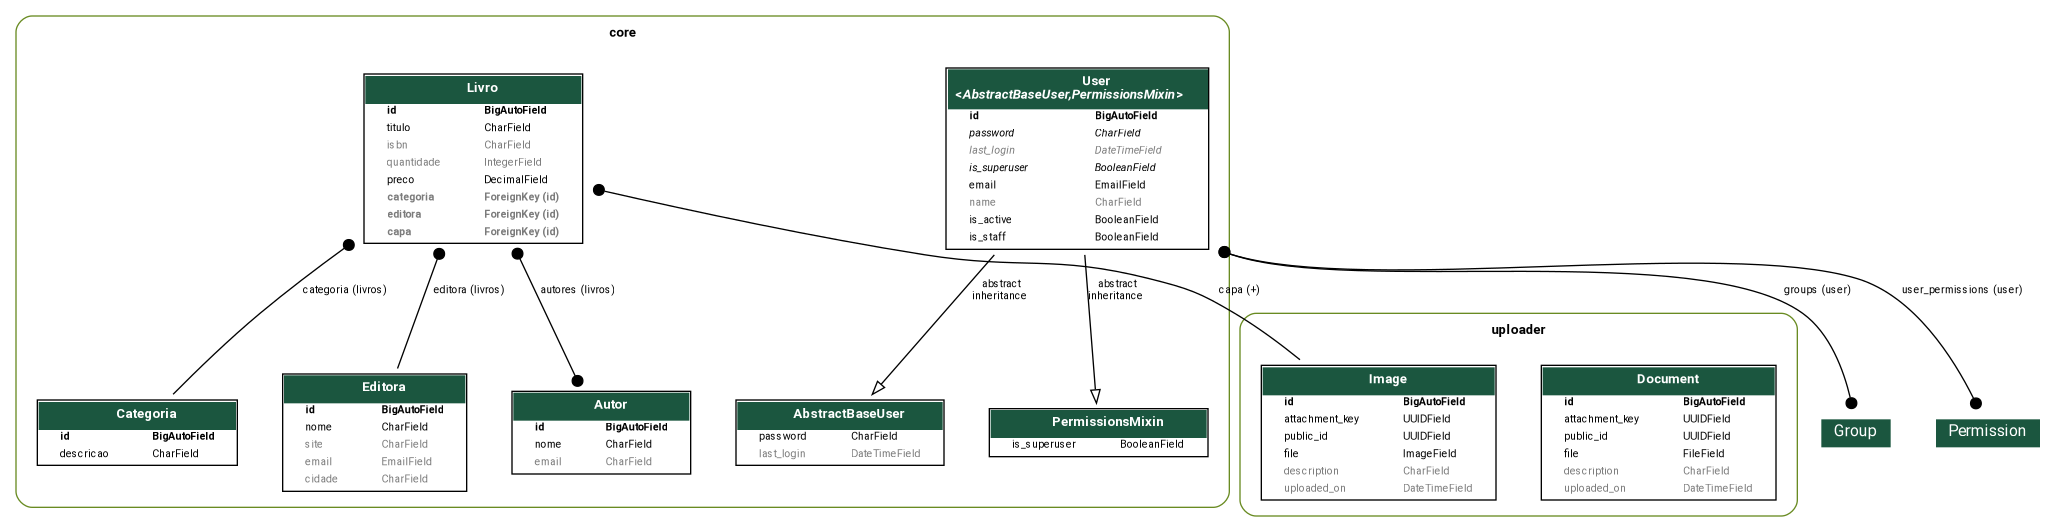
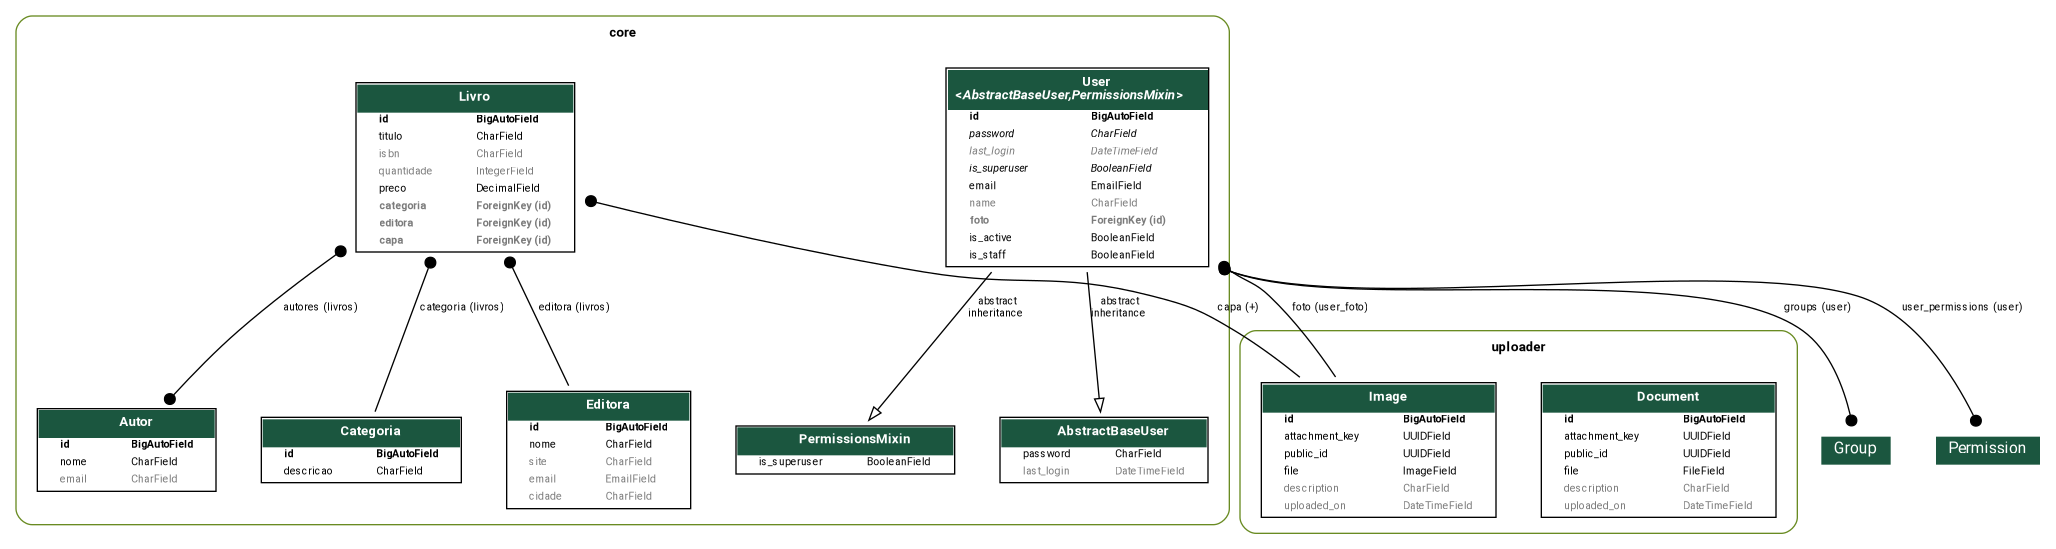
feat: inclusão da foto de perfil no usuário

diff --git a/core/serializers/user.py b/core/serializers/user.py
@@ -1,18 +1,39 @@
-from rest_framework import serializers
-from rest_framework.serializers import ModelSerializer
+from rest_framework.serializers import CharField, ModelSerializer, SlugRelatedField
 
 from core.models import User
+from uploader.models import Image
+from uploader.serializers import ImageSerializer
 
 
 class UserSerializer(ModelSerializer):
+    foto_attachment_key = SlugRelatedField(
+        source='foto',
+        queryset=Image.objects.all(),
+        slug_field='attachment_key',
+        required=False,
+        write_only=True,
+    )
+    foto = ImageSerializer(required=False, read_only=True)
+
     class Meta:
         model = User
-        fields = ['id', 'email', 'name', 'is_active', 'is_staff', 'is_superuser', 'last_login', 'groups']
+        fields = (
+            'id',
+            'email',
+            'name',
+            'foto',
+            'foto_attachment_key',
+            'is_active',
+            'is_staff',
+            'is_superuser',
+            'last_login',
+            'groups',
+        )
         depth = 1
 
 
 class UserRegistrationSerializer(ModelSerializer):
-    password = serializers.CharField(write_only=True, min_length=8)
+    password = CharField(write_only=True, min_length=8)
 
     class Meta:
         model = User

diff --git a/core/models/user.py b/core/models/user.py
@@ -10,6 +10,8 @@ from django.contrib.auth.models import (
 from django.db import models
 from django.utils.translation import gettext_lazy as _
 
+from uploader.models import Image
+
 
 class UserManager(BaseUserManager):
     """Manager for users."""
@@ -42,6 +44,14 @@ class User(AbstractBaseUser, PermissionsMixin):
 
     email = models.EmailField(max_length=255, unique=True, verbose_name=_('email'), help_text=_('Email'))
     name = models.CharField(max_length=255, blank=True, null=True, verbose_name=_('name'), help_text=_('Username'))
+    foto = models.ForeignKey(
+        Image,
+        related_name='user_foto',
+        on_delete=models.SET_NULL,
+        null=True,
+        blank=True,
+        default=None,
+    )
     is_active = models.BooleanField(
         default=True, verbose_name=_('Usuário está ativo'), help_text=_('Indica que este usuário está ativo.')
     )

diff --git a/core/migrations/0010_user_foto.py b/core/migrations/0010_user_foto.py
@@ -1,0 +1,20 @@
+# Generated by Django 5.2.13 on 2026-05-15 13:20
+
+import django.db.models.deletion
+from django.db import migrations, models
+
+
+class Migration(migrations.Migration):
+
+    dependencies = [
+        ('core', '0009_editora_cidade_editora_email'),
+        ('uploader', '0001_initial'),
+    ]
+
+    operations = [
+        migrations.AddField(
+            model_name='user',
+            name='foto',
+            field=models.ForeignKey(blank=True, default=None, null=True, on_delete=django.db.models.deletion.SET_NULL, related_name='user_foto', to='uploader.image'),
+        ),
+    ]

diff --git a/core/admin.py b/core/admin.py
@@ -54,7 +54,7 @@ class UserAdmin(BaseUserAdmin):
     search_fields = ['email', 'name', 'groups__name']
     fieldsets = (
         (None, {'fields': ('email', 'password')}),
-        (_('Personal Info'), {'fields': ('name',)}),
+        (_('Personal Info'), {'fields': ('name', 'foto')}),  # inclua a foto aqui
         (
             _('Permissions'),
             {
